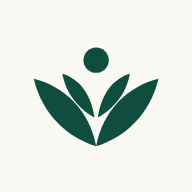
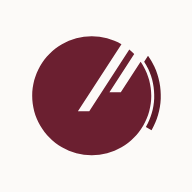
Product mark: «الإصبعان», the two fingers of the hadith, in the partner's geometry
The owner chose the «two fingers» concept: a disc in the logo's wine
crossed by two parallel slots at the angle of the alef slot in the
partner's logo (sponsor and orphan side by side), with a crescent riding
the rim. It replaces the unrelated leaf mark in the header, the home
hero, auth, empty states and reports, and the favicon and app icons
(which were still the old green leaf). A sibling of the partner's logo
built from its geometry only; the partner's calligraphy is untouched. In
dark mode the disc is ivory with a champagne crescent. The name stays
live text. The email logo image is regenerated by brand-sync, not here.

Claude-Session: https://claude.ai/code/session_01AqXAErpQ8HWg8nw7KWvinA

diff --git a/src/components/brand/KahataynMark.tsx b/src/components/brand/KahataynMark.tsx
@@ -3,14 +3,14 @@ import { BRAND as BRAND_TEXT } from "@/config/brand";
 import { COLORS } from "@/config/brand-colors";
 
 /**
- * شعار «كهاتين» — «أنا وكافل اليتيم في الجنة كهاتين».
+ * علامة المنتج «الإصبعان» — من الحديث «أنا وكافل اليتيم في الجنة هكذا» وأشار بالسبّابة والوسطى.
  *
- * التشريح: كفّان (ورقتان كبيرتان) تحتضنان طفلاً (رأسٌ وذراعان مرفوعتان
- * كورقتين صغيرتين)، ويعلوهما قوسان يلتقيان كقطرة: الذهبيّ والأخضر
- * متجاوران كالإصبعين في الحديث.
+ * التشريح: قرصٌ بلون الشعار يعبره شقّان متوازيان بزاوية شقّ الألف في شعار الشريك (الإصبعان:
+ * الكافل واليتيم متجاورَين)، وهلالٌ يركب الحافّة كما في شعار الشريك. علامةٌ شقيقةٌ لشعار
+ * «الأهلية للأيتام» لا نسخةٌ منه: هندسته فقط، وخطّه لا يُمسّ.
  *
- * ألوان مسطّحة بلا تدرّج — تصمد في الطباعة والأيقونة والختم. والنسخة
- * المضغوطة (`compact`) تُسقط القوسين، فتبقى مقروءة حتى 16px.
+ * ألوان مسطّحة بلا تدرّج، فتصمد في الطباعة والأيقونة والختم. النسخة الكاملة تحمل حلقةً
+ * رفيعة داخل القرص؛ و`compact` تُسقطها فتبقى مقروءةً حتى 16px.
  */
 
 export const BRAND = {
@@ -21,10 +21,15 @@ export const BRAND = {
   cream: COLORS.light.paper,
 } as const;
 
-// نصف الشعار الأيسر؛ الأيمن انعكاسه حول x=100.
-const OUTER_LEAF = "M100 186 C66 176 36 148 26 106 C60 114 92 142 100 186 Z";
-const INNER_LEAF = "M98 152 C80 142 64 124 60 100 C80 106 94 124 98 152 Z";
-const ARC = "M99 14 C72 40 40 62 34 108 C48 76 74 50 99 14 Z";
+/** the disc with its two slots (the two fingers), centred on 0,0 with radius 100 */
+const DISC =
+  "M100 0C100 17.55 95.38 34.8 86.6 50C77.83 65.2 65.2 77.83 50 86.6C34.8 95.38 17.55 100 0 100C-17.55 100 -34.8 95.38 -50 86.6C-65.2 77.83 -77.83 65.2 -86.6 50C-95.38 34.8 -100 17.55 -100 0C-100 -17.55 -95.38 -34.8 -86.6 -50C-77.83 -65.2 -65.2 -77.83 -50 -86.6C-34.8 -95.38 -17.55 -100 0 -100C17.52 -100 34.74 -95.39 49.92 -86.65L-23.23 26H-4.15L63.11 -77.57C66 -75.22 68.75 -72.72 71.35 -70.06L29.75 -6H48.82L82.05 -57.16C83.66 -54.85 85.18 -52.46 86.6 -50C95.38 -34.8 100 -17.55 100 0Z";
+/** the hairline ring inside the rim, broken where the slots cross it (full version only) */
+const RING =
+  "M90.8 0C90.8 -15.58 86.79 -30.89 79.17 -44.46L78.18 -42.94C85.41 -29.79 89.2 -15.02 89.2 0C89.2 15.66 85.08 31.04 77.25 44.6C69.42 58.16 58.16 69.42 44.6 77.25C31.04 85.08 15.66 89.2 0 89.2C-15.66 89.2 -31.04 85.08 -44.6 77.25C-58.16 69.42 -69.42 58.16 -77.25 44.6C-85.08 31.04 -89.2 15.66 -89.2 0C-89.2 -15.66 -85.08 -31.04 -77.25 -44.6C-69.42 -58.16 -58.16 -69.42 -44.6 -77.25C-31.04 -85.08 -15.66 -89.2 0 -89.2C13.93 -89.2 27.64 -85.94 40.05 -79.7L40.93 -81.05C28.26 -87.45 14.24 -90.8 0 -90.8C-15.94 -90.8 -31.6 -86.6 -45.4 -78.64C-59.2 -70.67 -70.67 -59.2 -78.64 -45.4C-86.6 -31.6 -90.8 -15.94 -90.8 0C-90.8 15.94 -86.6 31.6 -78.64 45.4C-70.67 59.2 -59.2 70.67 -45.4 78.64C-31.6 86.6 -15.94 90.8 0 90.8C15.94 90.8 31.6 86.6 45.4 78.64C59.2 70.67 70.67 59.2 78.64 45.4C86.6 31.6 90.8 15.94 90.8 0Z";
+/** the crescent riding the rim */
+const CRESCENT =
+  "M88.04 -57.21 94.54 -67.22C98.6 -61.51 102.15 -55.42 105.13 -49.02C113.01 -32.12 116.7 -13.57 115.89 5.06C115.08 23.69 109.78 41.85 100.46 58L90.93 52.5C99.37 37.88 104.16 21.44 104.9 4.58C105.64 -12.28 102.3 -29.08 95.16 -44.37C93.09 -48.83 90.71 -53.12 88.04 -57.21Z";
 
 type Tone = "color" | "white" | "current";
 
@@ -40,32 +45,28 @@ export function KahataynMark({
   title?: string;
 }) {
   const solid = tone === "white" ? "#FFFFFF" : tone === "current" ? "currentColor" : null;
-  // بالألوان: متغيّرات الهوية فيتبع الشعارُ المظهرَ الداكن، والقيمة الثابتة احتياطٌ
-  // لما يُرسم خارج الصفحة (البريد والصور).
-  const green = solid ?? `var(--primary, ${BRAND.green})`;
-  const gold = solid ?? `var(--bridge, ${BRAND.gold})`;
-  const mirror = "translate(200 0) scale(-1 1)";
+  // بالألوان: القرص بلون الهوية الرئيس فيتبع المظهر الداكن (عاجيّ على النبيذي العميق)،
+  // والقيمة الثابتة احتياطٌ لما يُرسم خارج الصفحة (البريد والصور).
+  const disc = solid ?? `var(--primary, ${COLORS.light.logo})`;
 
   return (
     <svg
-      viewBox={compact ? "18 60 164 132" : "18 8 164 184"}
+      viewBox="-102 -102 220 204"
       className={cn("size-full", className)}
       role={title ? "img" : "presentation"}
       aria-hidden={title ? undefined : true}
       aria-label={title}
     >
       {title && <title>{title}</title>}
-      {!compact && (
-        <>
-          <path d={ARC} fill={gold} />
-          <path d={ARC} fill={green} transform={mirror} />
-        </>
-      )}
-      <path d={OUTER_LEAF} fill={green} />
-      <path d={OUTER_LEAF} fill={green} transform={mirror} />
-      <path d={INNER_LEAF} fill={green} />
-      <path d={INNER_LEAF} fill={green} transform={mirror} />
-      <circle cx="100" cy="84" r="15" fill={green} />
+      {/* the ring is drawn in the page's background over the disc, so it reads as a cut hairline */}
+      <path d={DISC} fill={disc} />
+      {!compact && <path d={RING} style={{ fill: "var(--background, #fff)" }} opacity={0.9} />}
+      <path
+        d={CRESCENT}
+        {...(solid
+          ? { fill: solid }
+          : { className: "fill-[color:var(--logo-deep)] dark:fill-[color:var(--bridge)]" })}
+      />
     </svg>
   );
 }
